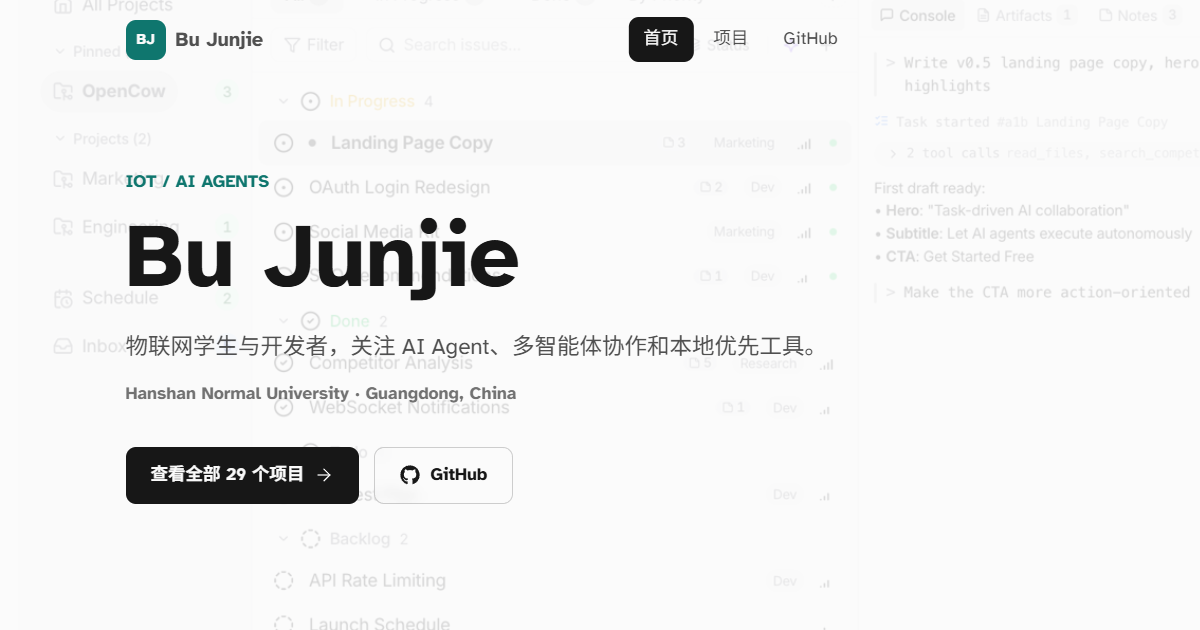
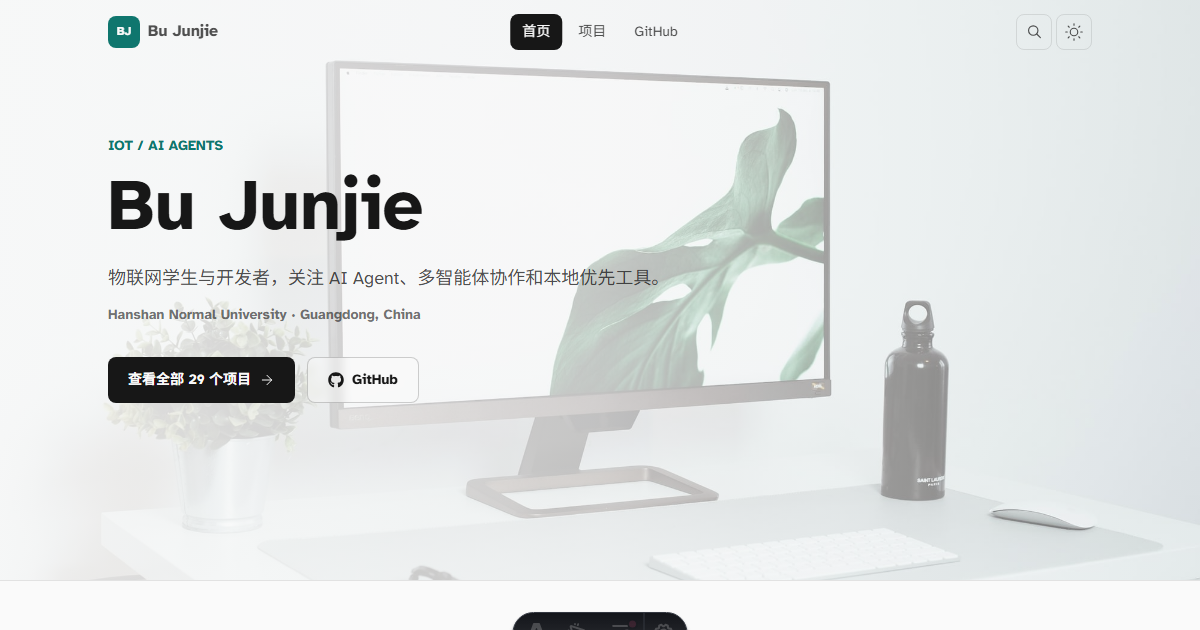
feat(首页): 更换极简开发工作区背景

diff --git a/README.md b/README.md
@@ -29,7 +29,7 @@ npm run build
 
 ## 内容来源
 
-个人简介和项目介绍根据 [wsbjj 的 GitHub 公开资料](https://github.com/wsbjj)整理。项目详情与最新状态以各仓库为准。首页背景取自 [S-OpenCow](https://github.com/wsbjj/S-OpenCow) 的公开工作台截图，不包含人物头像。
+个人简介和项目介绍根据 [wsbjj 的 GitHub 公开资料](https://github.com/wsbjj)整理。项目详情与最新状态以各仓库为准。首页背景采用 [Teddy GR 在 Unsplash 发布的极简工作区照片](https://unsplash.com/photos/gVpXbCGG6jI)，按 Unsplash License 使用，不包含人物头像。
 
 ## 模板与许可
 
